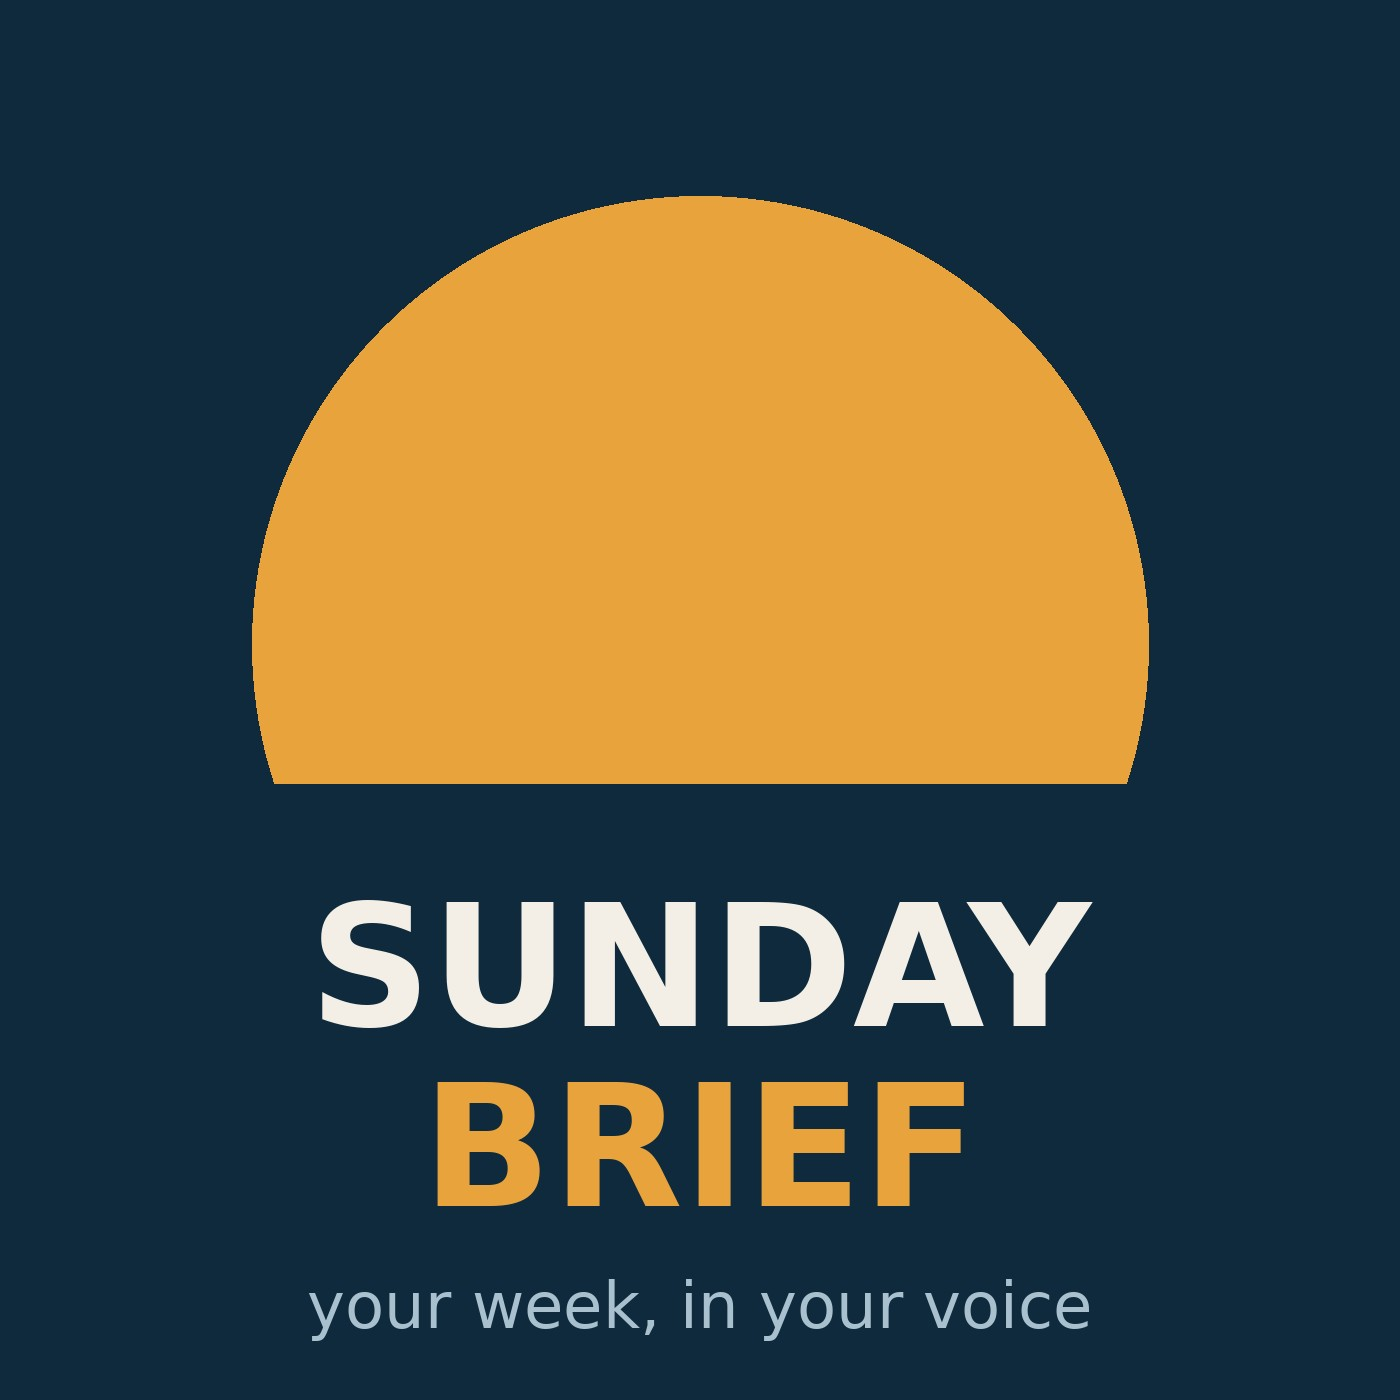
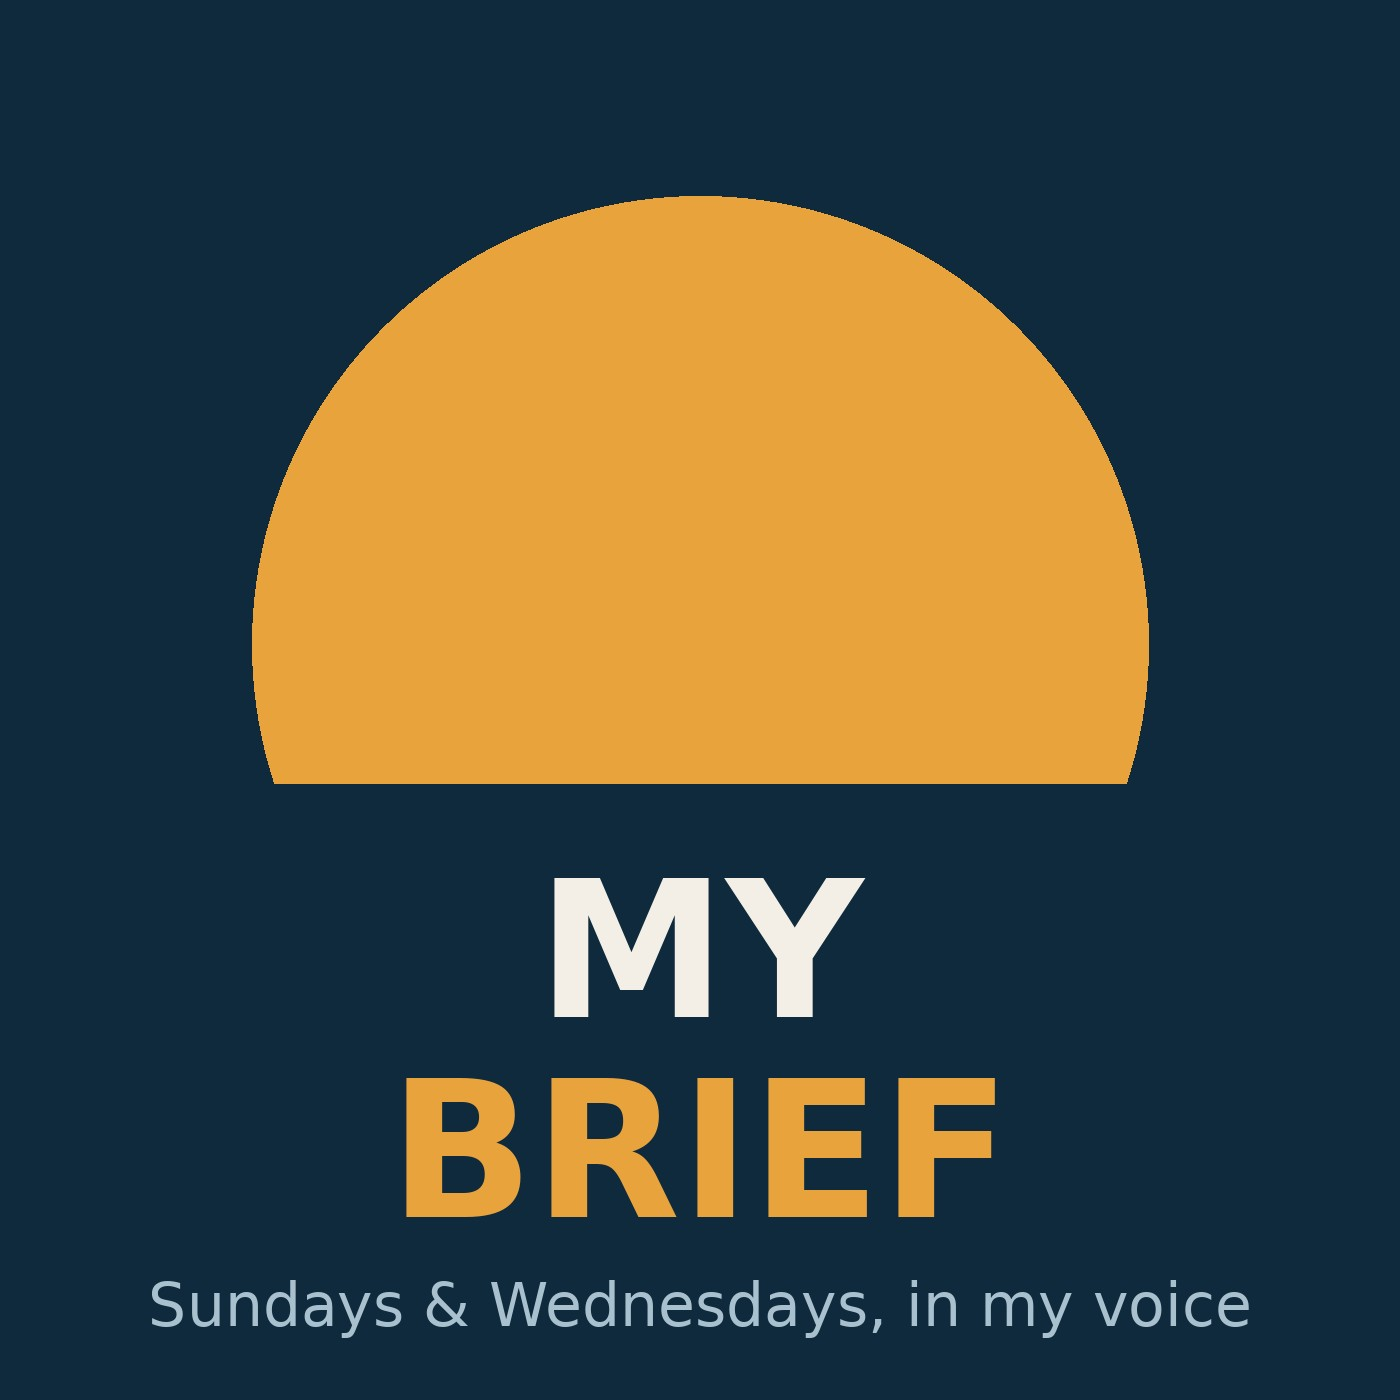
Rename podcast to My Brief; new cover
Claude-Session: https://claude.ai/code/session_01DRKhn5sAVZCLh823PL3W9d

Changed region(s): [[0.215, 0.6143, 0.7986, 0.7371], [0.2764, 0.7679, 0.7371, 0.8907], [0.0921, 0.9214, 0.8907, 0.9521]]

diff --git a/index.html b/index.html
@@ -1,7 +1,7 @@
 <!doctype html><html lang="en"><head><meta charset="utf-8"><meta name="viewport" content="width=device-width,initial-scale=1">
-<meta name="robots" content="noindex,nofollow"><title>Sunday Brief</title>
+<meta name="robots" content="noindex,nofollow"><title>My Brief</title>
 <style>body{margin:0;background:#0f2a3d;color:#f4efe6;font:17px/1.5 -apple-system,system-ui,sans-serif;display:grid;place-items:center;min-height:100vh;padding:16px;box-sizing:border-box;text-align:center}
 img{width:200px;border-radius:16px}a.b{display:inline-block;margin-top:20px;padding:14px 22px;background:#e8a33d;color:#0f2a3d;border-radius:12px;font-weight:700;text-decoration:none}code{color:#a9c1cf;word-break:break-all}</style></head>
-<body><main><img src="cover.jpg" alt=""><h1>Sunday Brief</h1>
+<body><main><img src="cover.jpg" alt=""><h1>My Brief</h1>
 <a class="b" href="podcast://myassinelkarargy-sudo.github.io/sunday-cast-93/feed.xml">Add to Apple Podcasts</a>
 <p>Or in Podcasts: Library → ••• → Follow a Show by URL, and paste:<br><code>https://myassinelkarargy-sudo.github.io/sunday-cast-93/feed.xml</code></p></main></body></html>
